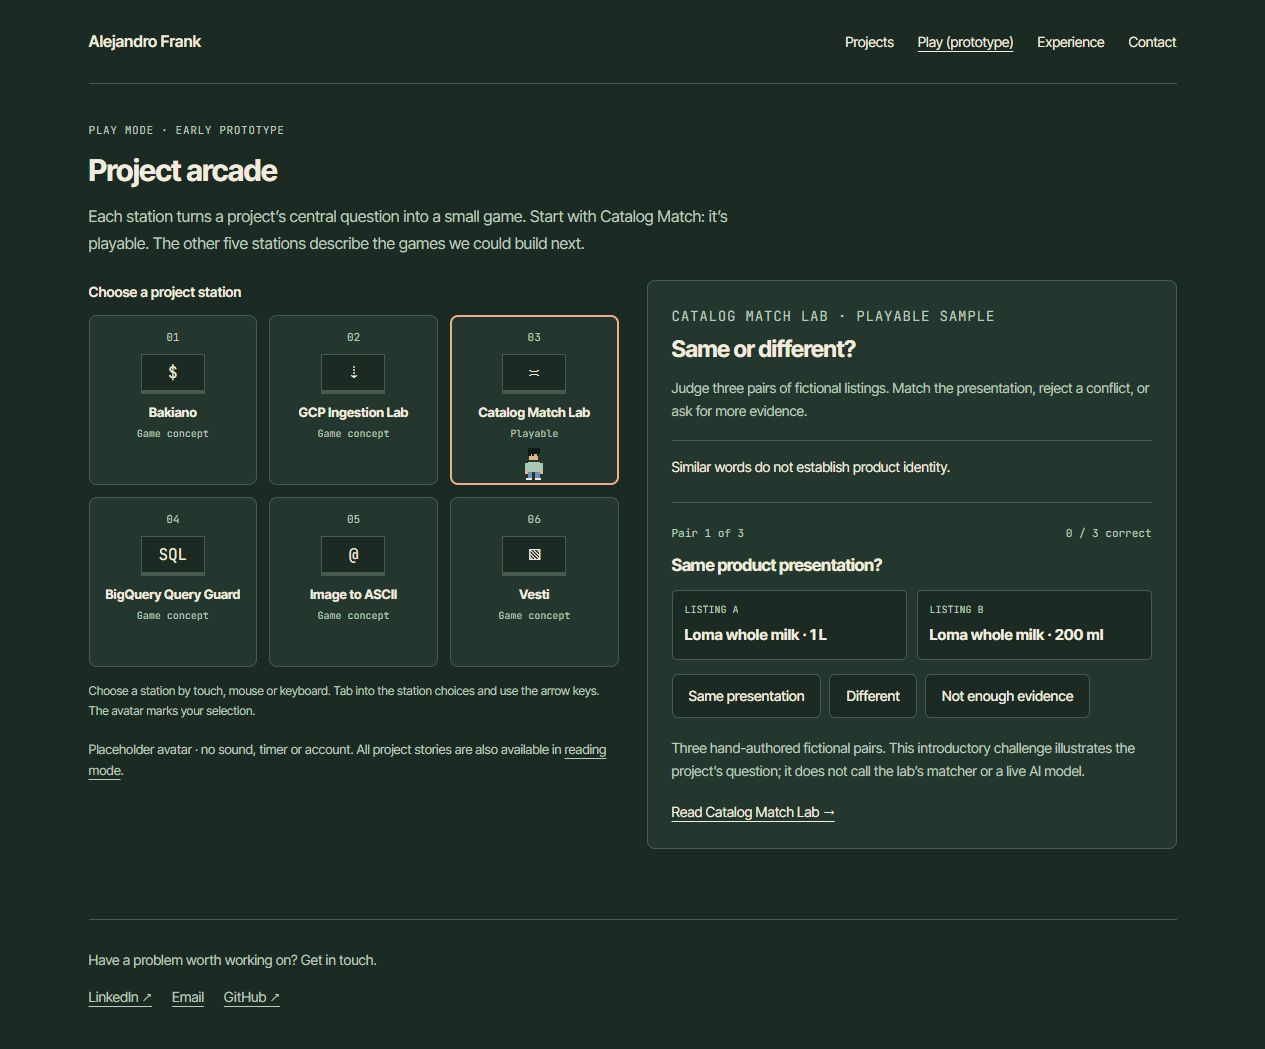
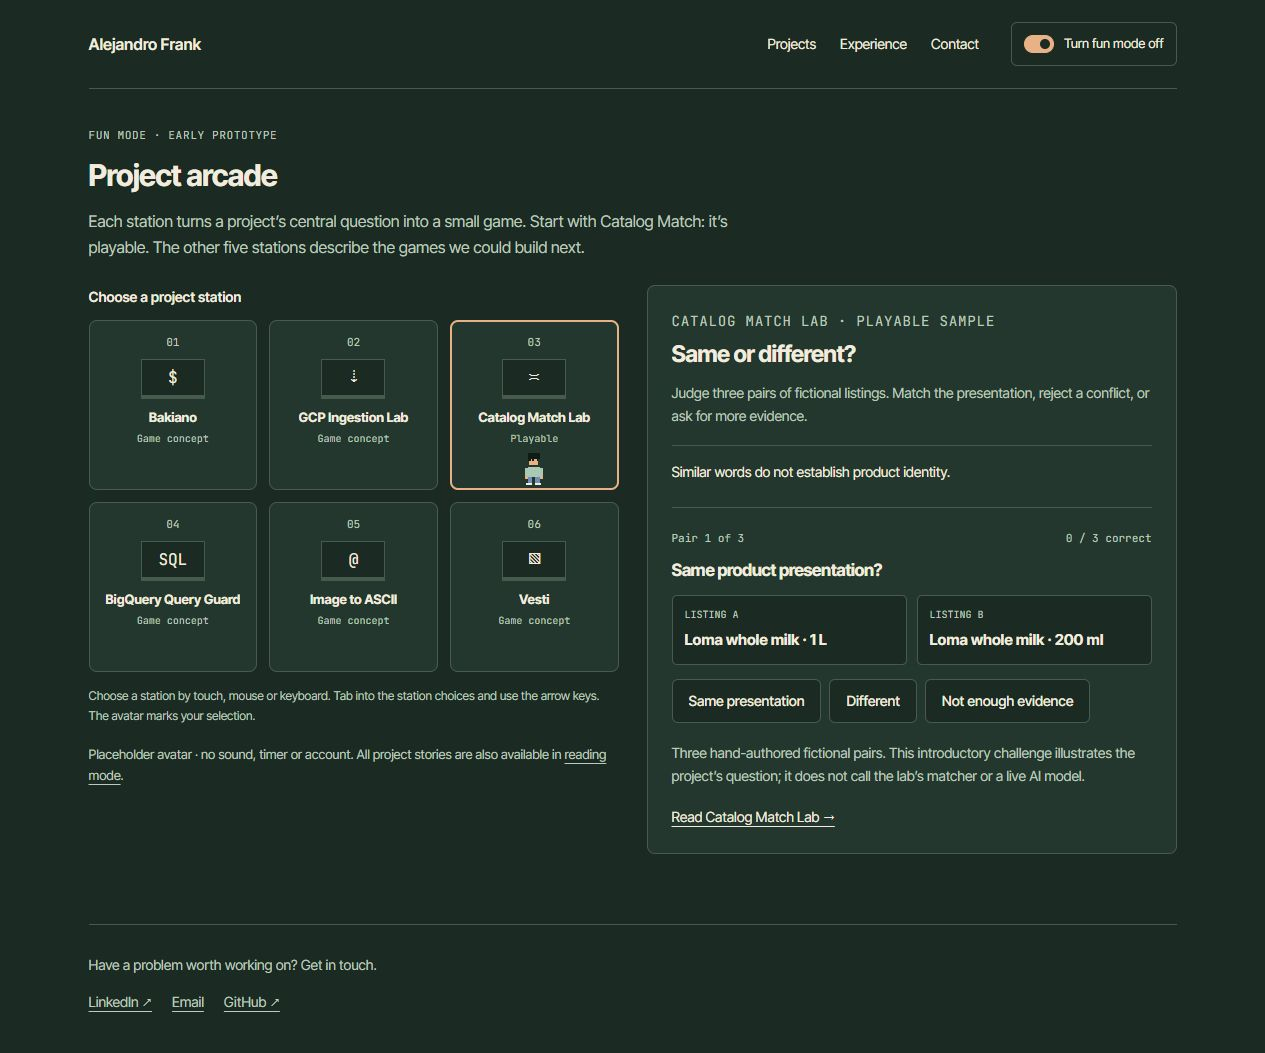
Make fun mode opt-in with a clear return to the work portfolio

diff --git a/src/play/page.ts b/src/play/page.ts
@@ -67,7 +67,7 @@ const playStyles = `
 export function renderPlayPage(origin: string): string {
   const symbols = ['$', '⇣', '≍', 'SQL', '@', '▧'];
   return readingShell('Project arcade · prototype', 'An optional arcade concept: one project per station, with a playable catalog identity challenge.', '/play', origin, `
-<header class="intro arcade-intro"><p class="eyebrow">Play mode · early prototype</p><h1>Project arcade</h1><p>Each station turns a project’s central question into a small game. Start with Catalog Match: it’s playable. The other five stations describe the games we could build next.</p></header>
+<header class="intro arcade-intro"><p class="eyebrow">Fun mode · early prototype</p><h1>Project arcade</h1><p>Each station turns a project’s central question into a small game. Start with Catalog Match: it’s playable. The other five stations describe the games we could build next.</p></header>
 <div class="arcade-layout"><div class="arcade-map"><fieldset id="station-controls" hidden><legend>Choose a project station</legend><div class="stations">${PROJECTS.map((p,i) => `<div class="station"><input type="radio" name="station" id="station-${p.slug}" value="${p.slug}"${p.slug === 'catalog-match-lab' ? ' checked' : ''} aria-controls="concept-${p.slug}"><label for="station-${p.slug}"><span class="station-number">${String(i+1).padStart(2,'0')}</span><span class="station-screen" aria-hidden="true">${symbols[i]}</span><strong>${esc(p.title)}</strong><small>${p.slug === 'catalog-match-lab' ? 'Playable' : 'Game concept'}</small>${AVATAR}</label></div>`).join('')}</div></fieldset>
 <p class="map-help"><span class="phone-tip">Swipe for more stations. </span>Choose a station by touch, mouse or keyboard. Tab into the station choices and use the arrow keys. The avatar marks your selection.</p><p class="arcade-note">Placeholder avatar · no sound, timer or account. All project stories are also available in <a href="/#projects">reading mode</a>.</p><noscript><p>JavaScript is needed for the station selector and matching challenge. All project concepts and reading links are available below.</p></noscript></div>
 <div class="station-panels">${PROJECTS.map(p => { const concept = CONCEPTS[p.slug]; return `<section class="station-panel" id="concept-${p.slug}" data-station-panel="${p.slug}" aria-labelledby="concept-title-${p.slug}"><p class="eyebrow">${esc(p.title)} · ${p.slug === 'catalog-match-lab' ? 'Playable sample' : 'Game concept'}</p><h2 id="concept-title-${p.slug}">${esc(concept.name)}</h2><p>${esc(concept.task)}</p><p class="lesson">${esc(concept.lesson)}</p>${p.slug === 'catalog-match-lab' ? gameMarkup() : ''}<a class="read-link" href="${projectPath(p)}">Read ${esc(p.title)} →</a></section>`; }).join('')}</div></div>`, playStyles, `import { initArcade } from '/play/arcade.mjs'; initArcade();`);

diff --git a/src/projects/styles.ts b/src/projects/styles.ts
@@ -21,9 +21,15 @@ p+p { margin-top:14px; }
 .site-wrap { max-width:1160px; margin:auto; padding:0 36px; }
 .site-nav { display:flex; justify-content:space-between; align-items:center; gap:20px; padding:22px 0; border-bottom:1px solid var(--line); }
 .site-name { font-weight:600; text-decoration:none; }
-.nav-links { display:flex; flex-wrap:wrap; gap:8px 24px; font-size:14px; }
+.nav-links { display:flex; flex-wrap:wrap; gap:8px 24px; font-size:14px; margin-left:auto; }
 .nav-links a { padding:8px 0; text-decoration:none; }
 .nav-links a:hover,.nav-links [aria-current=page] { text-decoration:underline; }
+.mode-toggle { display:inline-flex; align-items:center; justify-content:center; gap:10px; padding:8px 12px; min-height:44px; margin-left:12px; border:1px solid var(--line); border-radius:6px; font-size:13px; white-space:nowrap; text-decoration:none; }
+.mode-toggle:hover { background:var(--surface); }
+.toggle-track { display:inline-flex; align-items:center; width:30px; height:18px; padding:3px; border:1px solid var(--muted); border-radius:12px; }
+.toggle-track span { width:10px; height:10px; border-radius:50%; background:var(--muted); }
+.mode-toggle[data-mode=fun] .toggle-track { justify-content:flex-end; background:var(--accent); border-color:var(--accent); }
+.mode-toggle[data-mode=fun] .toggle-track span { background:var(--bg); }
 .skip-link { position:absolute; top:-80px; left:20px; background:var(--fg); color:var(--bg); padding:10px; z-index:10; }
 .skip-link:focus { top:8px; }
 .intro { padding:38px 0 32px; max-width:730px; }
@@ -112,6 +118,8 @@ p+p { margin-top:14px; }
 .pipeline-stage[open] .pipeline-toggle { transform:rotate(45deg); }
 @media(max-width:780px) {
   .site-wrap { padding:0 22px; }
+  .site-nav { flex-wrap:wrap; }
+  .mode-toggle { margin-left:0; }
   .work-layout { grid-template-columns:1fr; gap:22px; }
   .reading-guide { position:static; border-bottom:1px solid var(--line); padding-bottom:18px; }
   .reading-guide ol { display:flex; flex-wrap:wrap; gap:0 20px; }
@@ -129,7 +137,7 @@ p+p { margin-top:14px; }
 @media(max-width:480px) {
   .site-wrap { padding:0 18px; }
   .site-nav { align-items:flex-start; flex-direction:column; gap:6px; padding:16px 0; }
-  .nav-links { gap:18px; }
+  .nav-links { gap:18px; margin-left:0; }
   .intro h1 { font-size:26px; }
   .section-top { align-items:flex-start; flex-direction:column; gap:8px; margin-bottom:18px; }
   .entry-bottom { align-items:flex-start; flex-direction:column; gap:12px; }

diff --git a/src/projects/page.ts b/src/projects/page.ts
@@ -12,6 +12,9 @@ export function projectState(project: Project): string {
 }
 
 export function readingShell(title: string, description: string, path: string, origin: string, body: string, extraStyles = '', script = ''): string {
+  const funMode = path === '/play';
+  const currentProject = PROJECTS.find(project => projectPath(project) === path);
+  const modeHref = funMode ? '/' : '/play' + (currentProject ? '#' + currentProject.slug : '');
   return `<!doctype html><html lang="en"><head>
 <meta charset="utf-8"><meta name="viewport" content="width=device-width,initial-scale=1,viewport-fit=cover">
 <meta name="theme-color" content="#1c2a24">${FAVICON}${FONTS_LINK}
@@ -23,8 +26,8 @@ export function readingShell(title: string, description: string, path: string, o
 <style>${readingStyles}${extraStyles}</style></head><body>
 <a class="skip-link" href="#main">Skip to content</a><div class="site-wrap">
 <header class="site-nav"><a class="site-name" href="/">${SITE.name}</a><nav class="nav-links" aria-label="Main navigation">
-<a href="/#projects"${path === '/' || path.startsWith('/projects/') ? ' aria-current="page"' : ''}>Projects</a><a href="/play"${path === '/play' ? ' aria-current="page"' : ''}>Play <span class="nav-note">(prototype)</span></a><a href="/timeline">Experience</a><a href="/#contact">Contact</a>
-</nav></header><main id="main">${body}</main>
+<a href="/#projects"${path === '/' || path.startsWith('/projects/') ? ' aria-current="page"' : ''}>Projects</a><a href="/timeline">Experience</a><a href="/#contact">Contact</a>
+</nav><a class="mode-toggle" id="mode-toggle" data-mode="${funMode ? 'fun' : 'work'}" href="${modeHref}"><span class="toggle-track" aria-hidden="true"><span></span></span><span>Turn fun mode ${funMode ? 'off' : 'on'}</span></a></header><main id="main">${body}</main>
 <footer class="site-footer" id="contact"><p>Have a problem worth working on? Get in touch.</p><nav class="footer-links" aria-label="Contact">${LINKS.filter(l => ['Email', 'GitHub', 'LinkedIn'].includes(l.label)).map(l => `<a href="${esc(l.href)}"${l.href.startsWith('https:') ? ' target="_blank" rel="noopener noreferrer"' : ''}>${esc(l.label)}${l.href.startsWith('https:') ? ' ↗' : ''}</a>`).join('')}</nav></footer>
 </div>${script ? `<script type="module">${script}</script>` : ''}</body></html>`;
 }

diff --git a/README.md b/README.md
@@ -11,7 +11,7 @@ An engineering portfolio with a suggested reading path: Bakiano, the ingestion, 
 - **Experience:** a career timeline with role-by-role system diagrams and written explanations.
 - **Live activity:** a GitHub contribution calendar fetched at the edge, with a profile link available if the API is unavailable.
 - **Reading interface:** compact titles, direct project links, keyboard navigation, responsive layouts and print styles. Reading the projects requires no JavaScript.
-- **Arcade prototype:** `/play` has a placeholder pixel avatar, six project stations, and one playable three-pair identity challenge. Five other games are labeled concepts. [Direction and next steps](docs/project-arcade.md).
+- **Optional fun mode:** the portfolio opens in work mode. “Turn fun mode on” enters `/play`, with a placeholder pixel avatar, six project stations, and one playable three-pair identity challenge. “Turn fun mode off” returns to the project index. Five other games are labeled concepts. [Direction and next steps](docs/project-arcade.md).
 
 ### Branch previews
 

diff --git a/docs/project-arcade.md b/docs/project-arcade.md
@@ -4,6 +4,8 @@
 
 The homepage is a visible index. Each project has a stable `/projects/:slug` page with the problem, approach, evidence, limitations and a next-project link. Readers can inspect the work without playing anything or enabling JavaScript.
 
+Work mode is the default. A separate “Turn fun mode on” control enters the arcade; “Turn fun mode off” returns to the selected project in the reading index. From a project page, switching on selects that project's station. The mode control is a normal navigation link styled as an on/off switch, so it also works without JavaScript. There is no saved preference or automatic redirect that changes the homepage into an arcade on a later visit.
+
 The reading order follows a system: Bakiano → ingestion → product identity → query controls. Image to ASCII adds a creative experiment; Vesti closes with work in progress. Status and evidence distinguish a live product from a runnable lab or an idea.
 
 ## What the reference suggests
